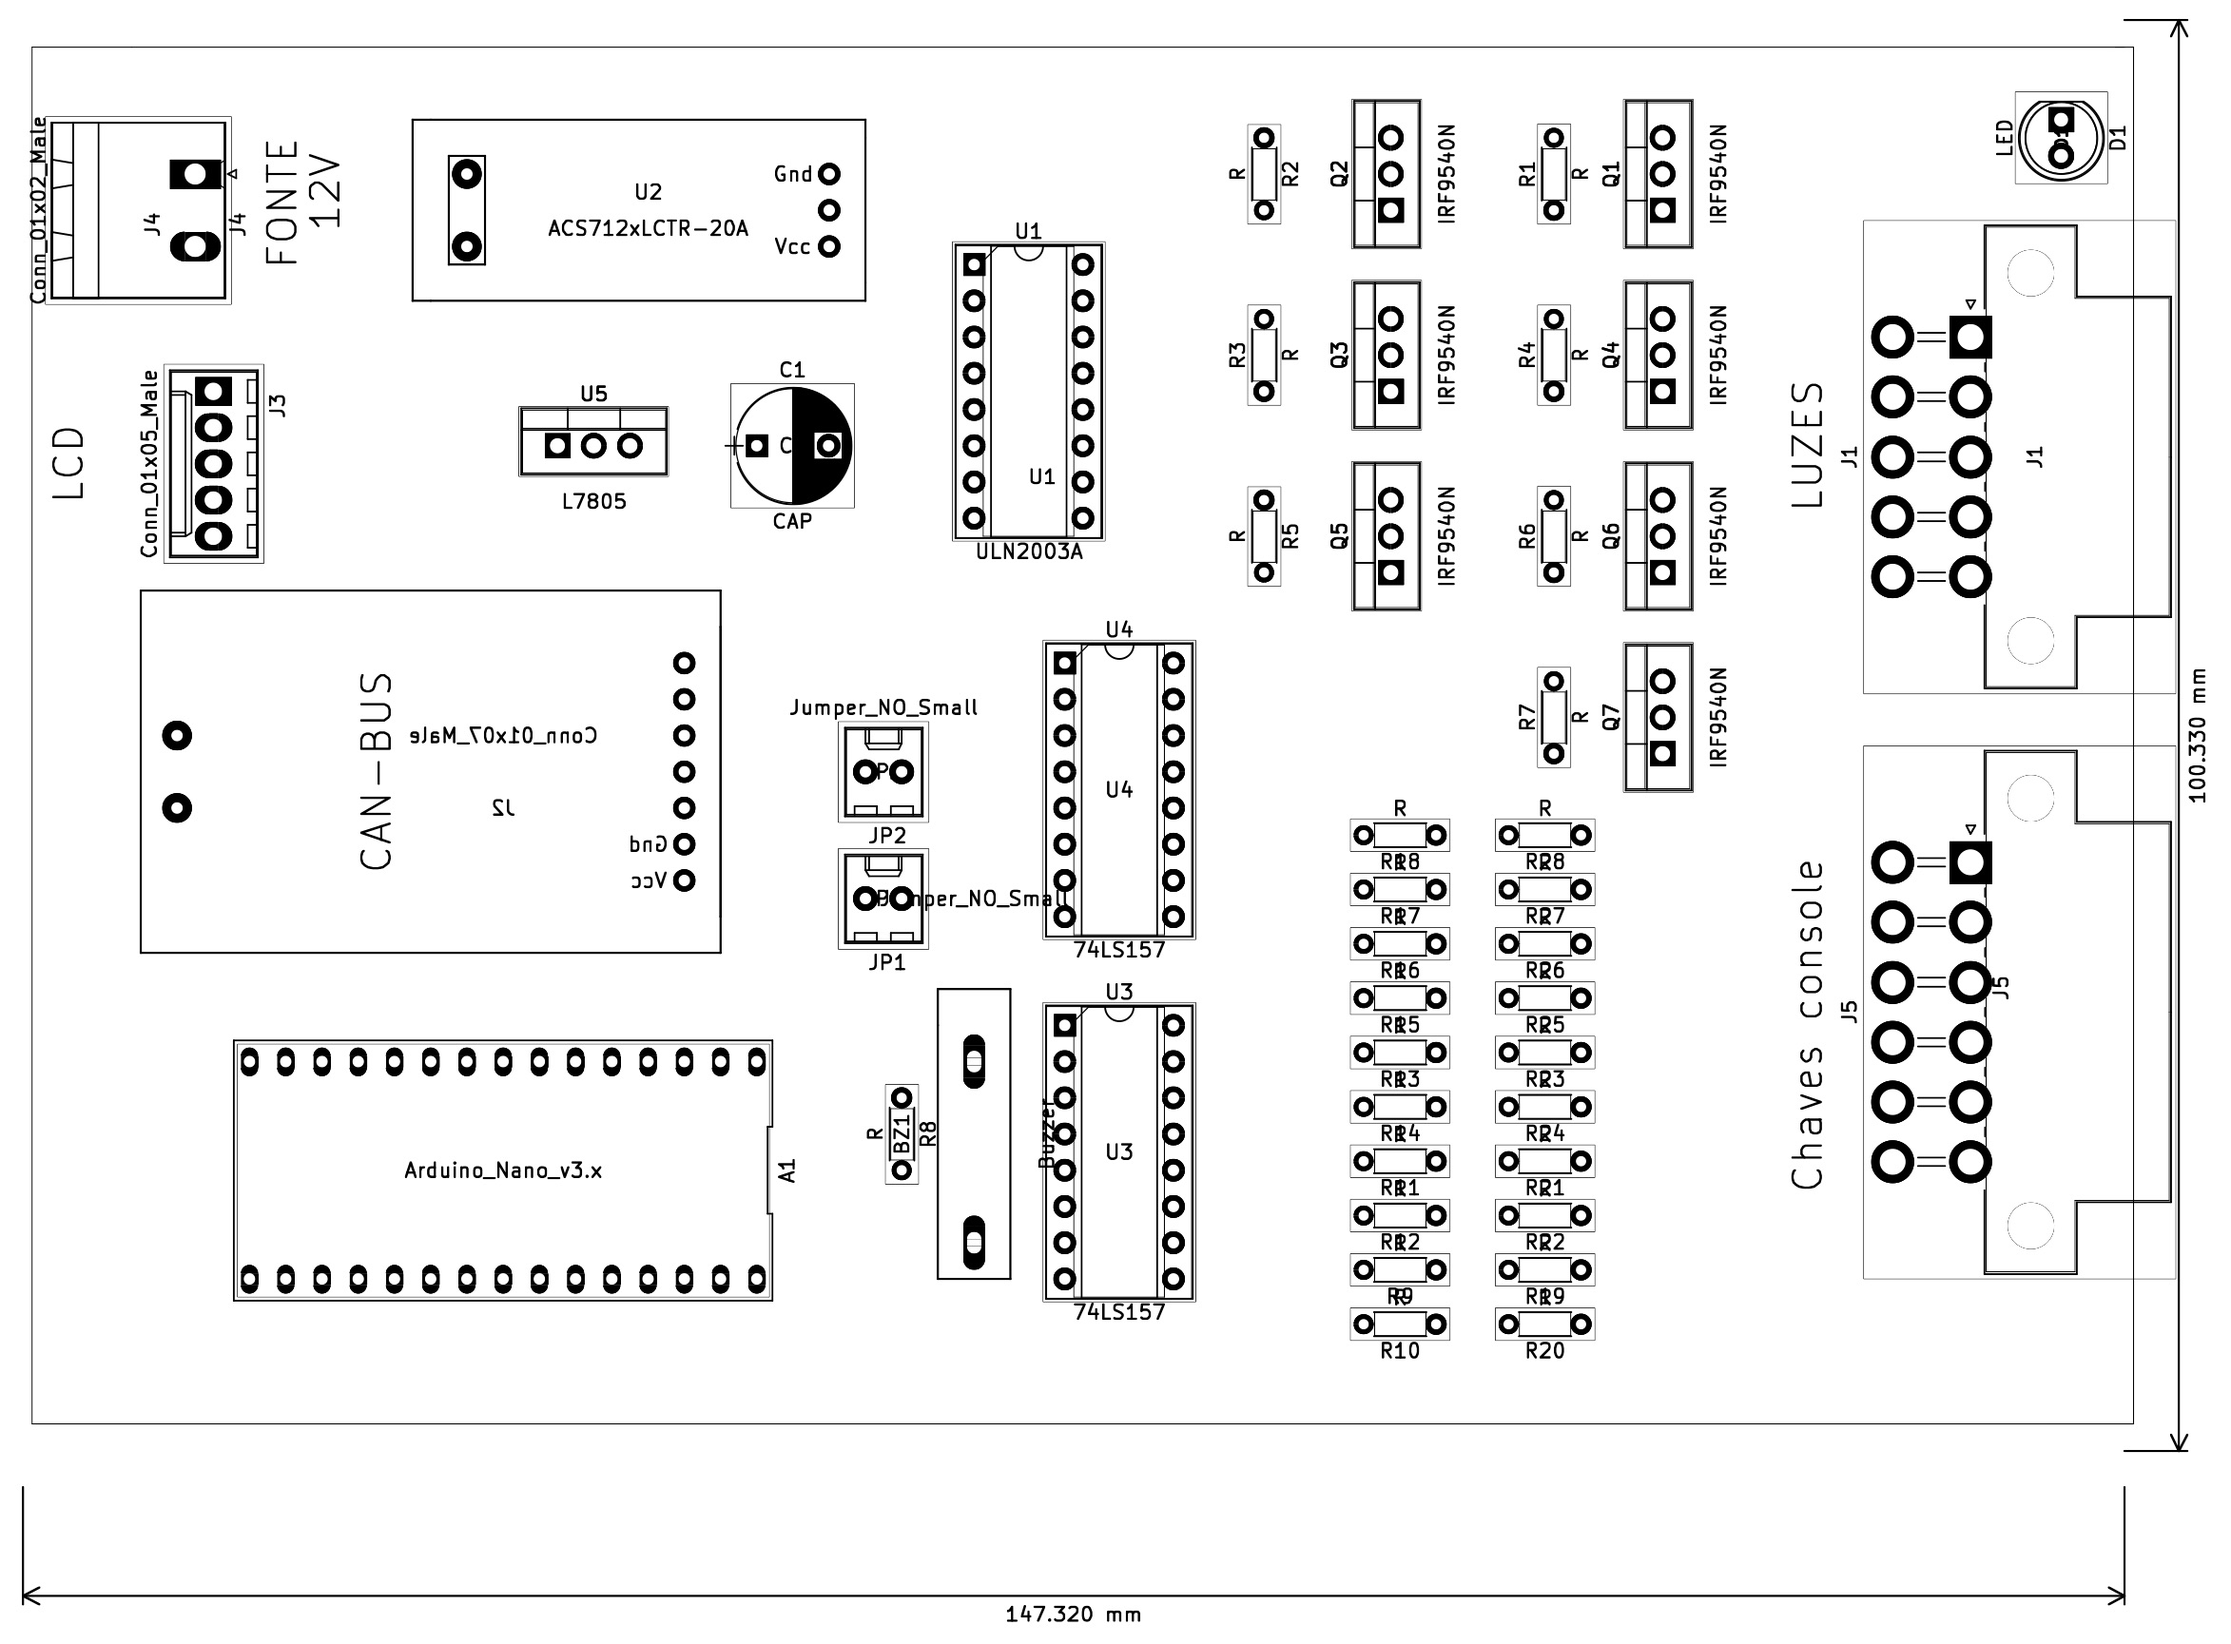
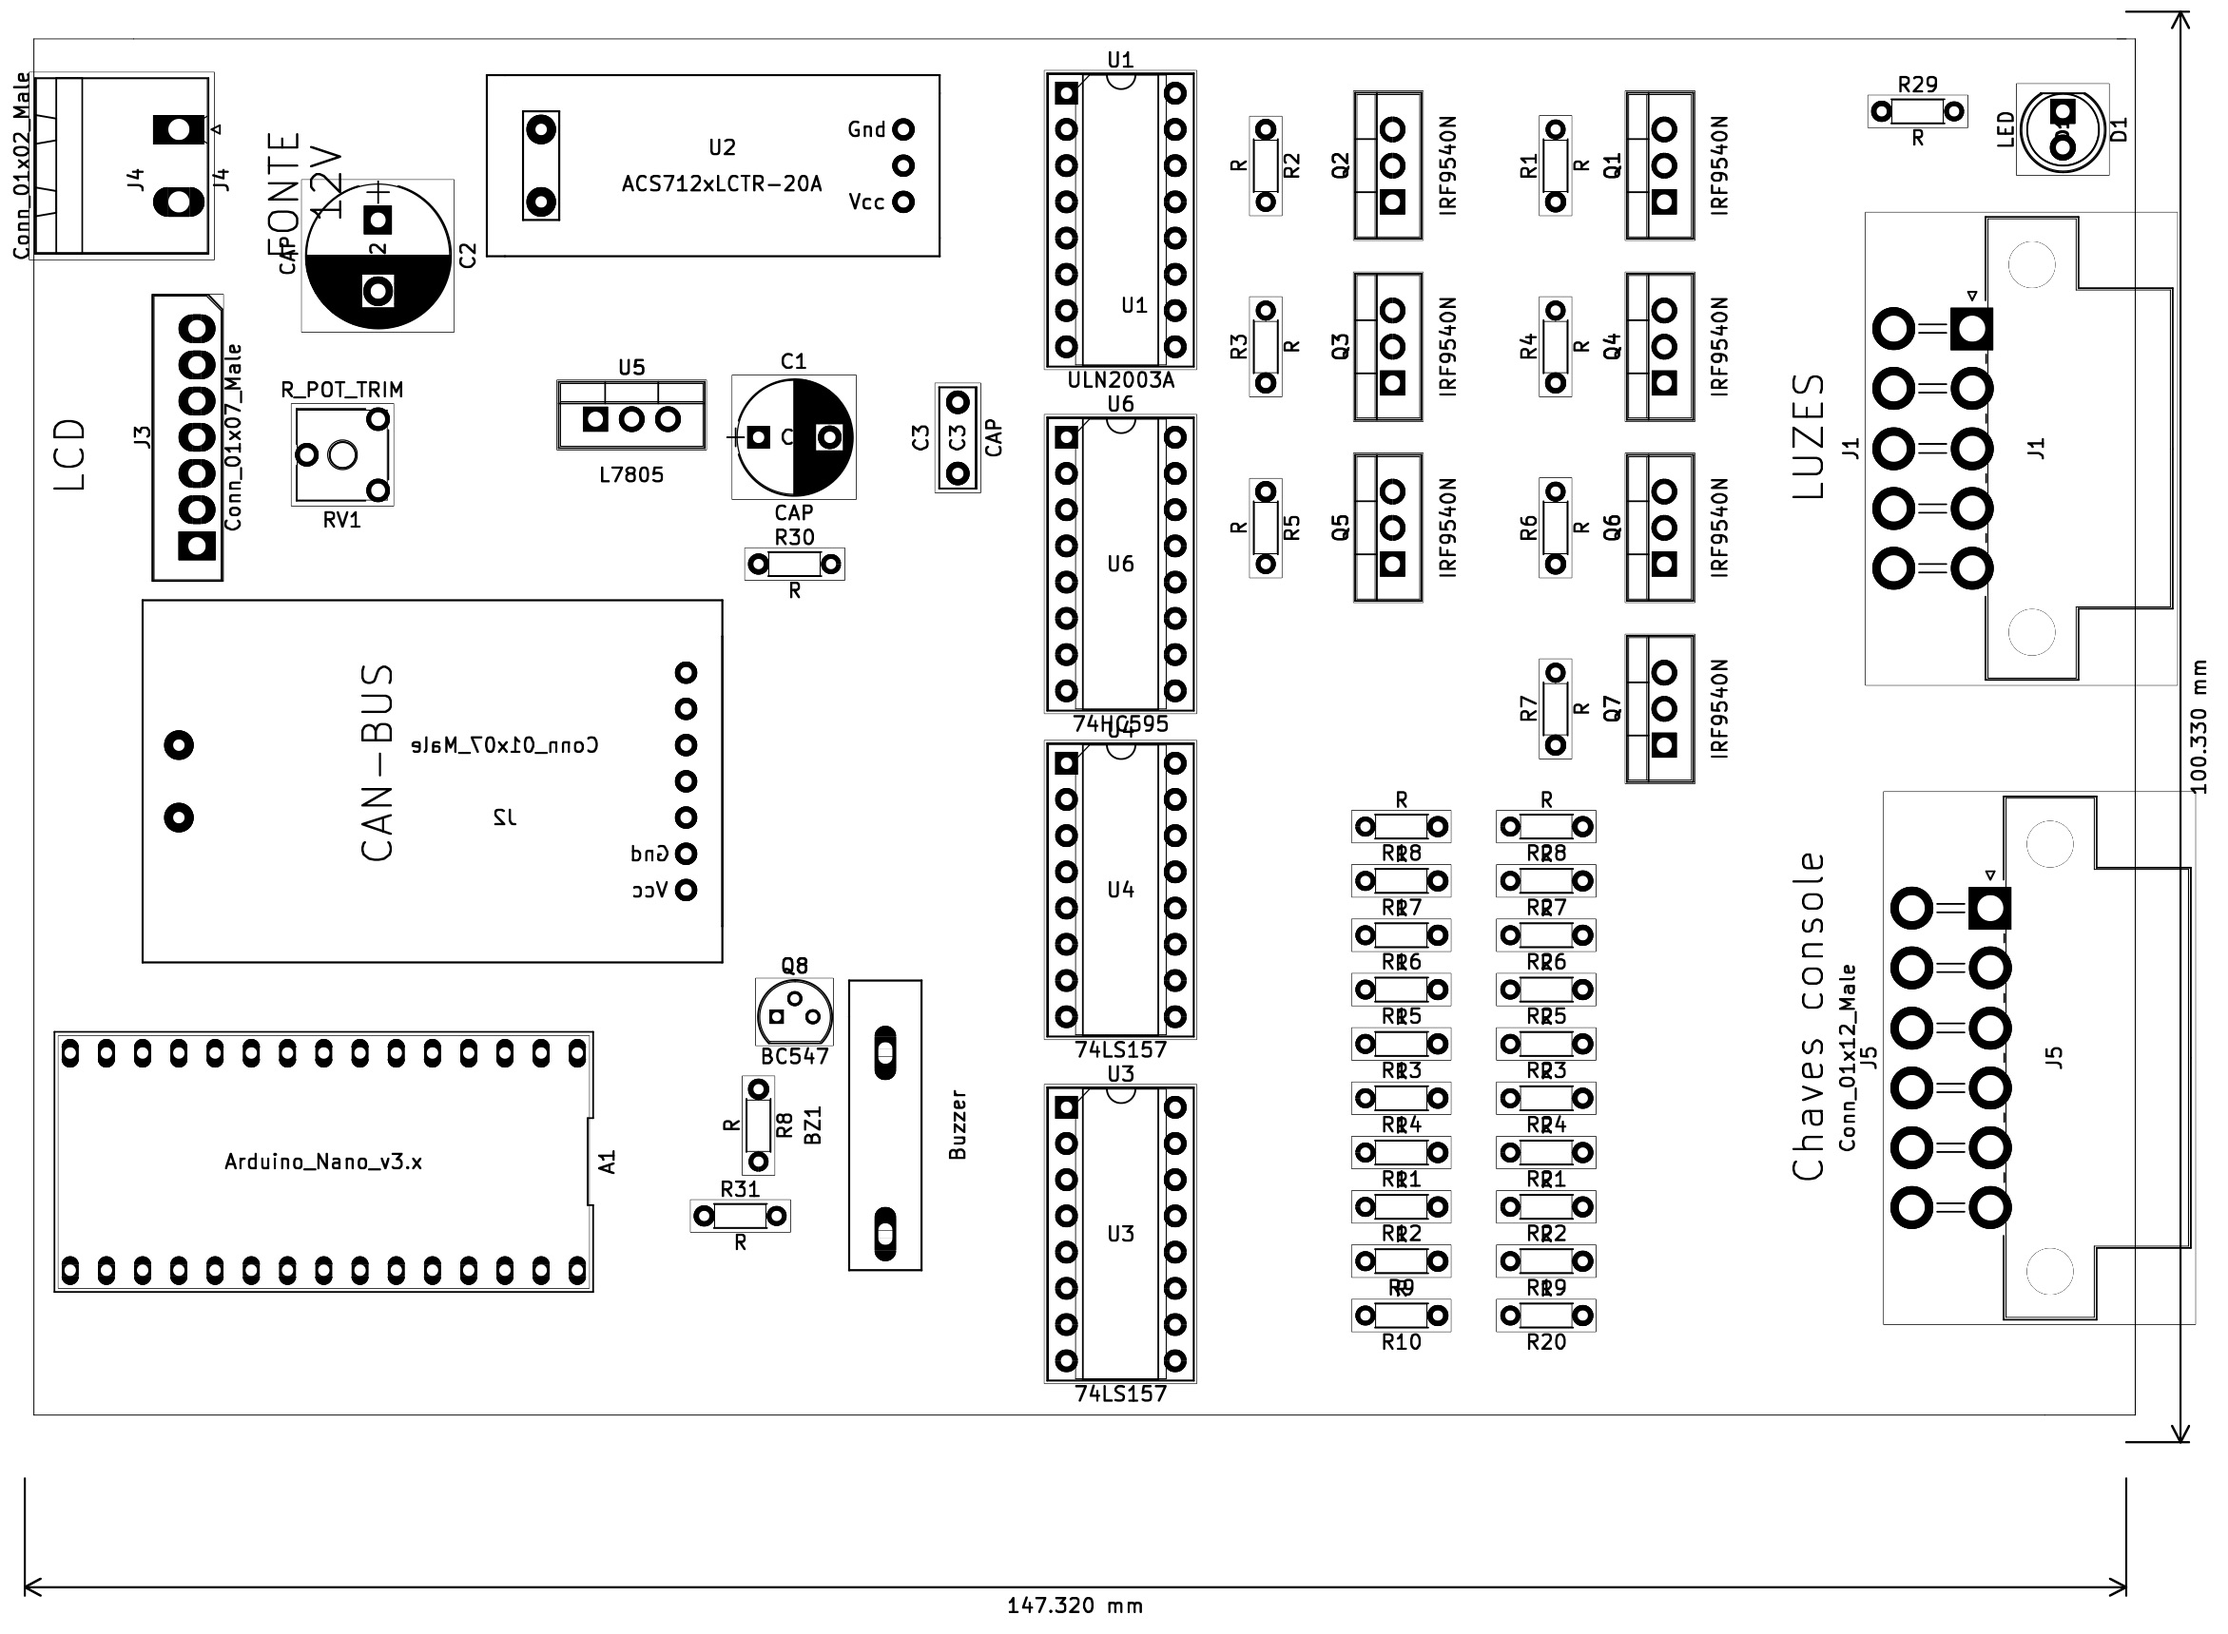
Novo esquematico atualizado

diff --git a/README.md b/README.md
@@ -2,22 +2,20 @@
 
 
 A Van é um veículo fabricado há 10 anos com um sistema de controle de luzes e sinalização convencional baseado em relés e interruptores simples. A conversão da Van para elétrico, também teve que fazer o *redesing* das instalações elétricas do veículo, incorporando toda sinalização e comando de luzes à barramento de comunicação do novo veículo.
- 
-Um novo módulo foi desenhado para centralizar todos os comandos de luzes e sinalização, aproveitando as teclas e interruptores já existentes no *dashboard* do veículo, mas permitido a sua expansão com elementos não convencionais que podem ser facilmente incorporado na nova configuração tecnológica. O diagrama de blocos a seguir mostra o esquema funcional do novo módulo.
+
+Usou-se como base o módulo desenvolvido para o BR800. Este novo módulo foi desenhado para centralizar todos os comandos de luzes e sinalização, aproveitando as teclas e interruptores já existentes no *dashboard* do veículo, mas permitido a sua expansão com elementos não convencionais que podem ser facilmente incorporado na nova configuração tecnológica. O diagrama de blocos a seguir mostra o esquema funcional do novo módulo.
 
 ![](figuras/Diagrama_blocos_Mod_luz.jpg)   
 
 Este módulo tem como elemento central o Arduino Nano. Escolheu-se esta placa microcontroladora por sua popularidade, grande acervo técnico de suporte e relação custo benefício. 
 O módulo monitora as teclas no painel para ligar a sinalização (setas direita e esquera), farois (baixo e alto), lanterna, luz de freio, pisca alerta, freio de mão, e luz de ré no total de 9 comandos.
 
-Estes comandos são processados pelo módulo e apresentado de forma gráfico no display do módulo e por meio de 7 comandos os sinais luminosos farol alto, farol baixa, lanterna, luz de freio, luz de ré e as setas para direita e esquerda são acionados. A sinalização de freio de mão acionada e encaminhada somente para o display. 
-As figuras a seguir mostram o esquema elétrica do módulo e a placa de circuito impresso. (falta trimpot de luminosidade do lcd).
+Estes comandos são processados pelo módulo e apresentado de forma gráfico no display do módulo e por meio de 7 comandos os sinais luminosos farol alto, farol baixa, lanterna, luz de freio, luz de ré e as setas para direita e esquerda são acionados. 
+A sinalização de freio de mão acionada é somente encaminhada para o display. 
+O módulo também emite o sinal sonoro de alarme ou setas, por meio de um buzzer. 
+As figuras a seguir mostram o esquema elétrica do módulo e a placa de circuito impresso. 
 
 ![](figuras/Esquema_Mod_luz.jpg)
-
-```
-Falta trocar o D2 com D3 do Arduino para mantar a compatibilidade da biblioteca CAN do sparkfun can-shield.
-```
 
 O módulo tem a capacidade de monitorar seu consumo de corrente e a sua tensão e o barramento CAN permitirá a medição e acionamento remoto.
 A comunicação CAN é implementado por um controlador dedicada para CAN Bus MCP2515 que está ligado por meio da interface SPI ao microcontrolador Arduino. Veja o datasheet do controlador MCP2515 
@@ -28,6 +26,8 @@ O layout da placa de circuito impresso (PCB) está na figura a seguir.
 
 ![](figuras/placa_mod_luz.jpg)
 
+## Alojamento e conexões
+
 O módulo será alojado numa caixa padrão Patola [PB115](http://www.patola.com.br/index.php?route=product/product&product_id=359) com conectores específicos para cada funcionalidade, com pinagem diferenciados para evitar trocas. Os conectores para display, alimentação 12 volts, CAN também são padronizadas. 
 Convencionou-se que entrada dos sensores e saída dos comandos ficarão na parte de traseira da caixa, enquanto a interface CAN, alimentação, saída para display e acesso para reporgramação do arduino ficarão no frente. A interface CAN será implementado por dois conectores DB9, mantendo o padrão industrial.
 
@@ -36,6 +36,7 @@ A foto na figura a seguir mostra a caixa PB115 com a proposta de placa de circui
 ![](fotos/foto_placa_luzes.jpg)
 
 
+## Conector CAN
 
-
+Pinagem do conector DB9 macho para ligar o barramento CAN.
 
